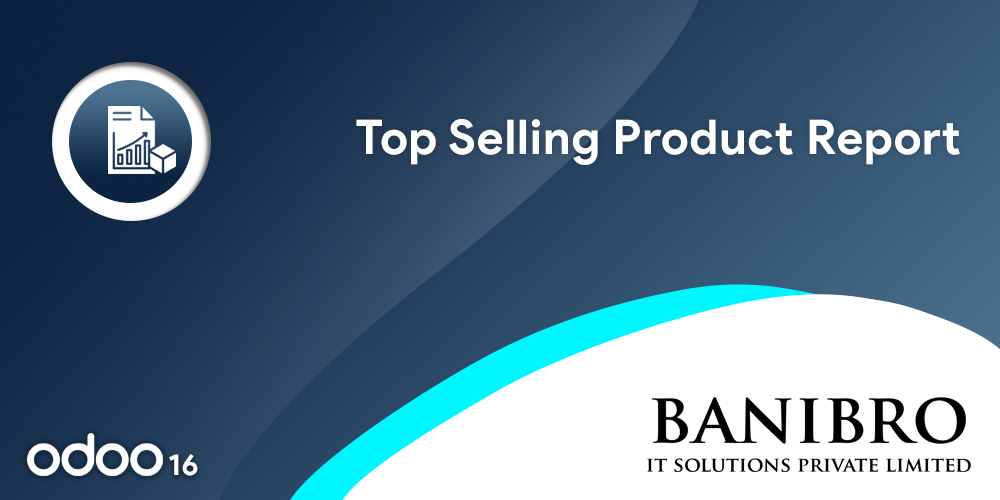
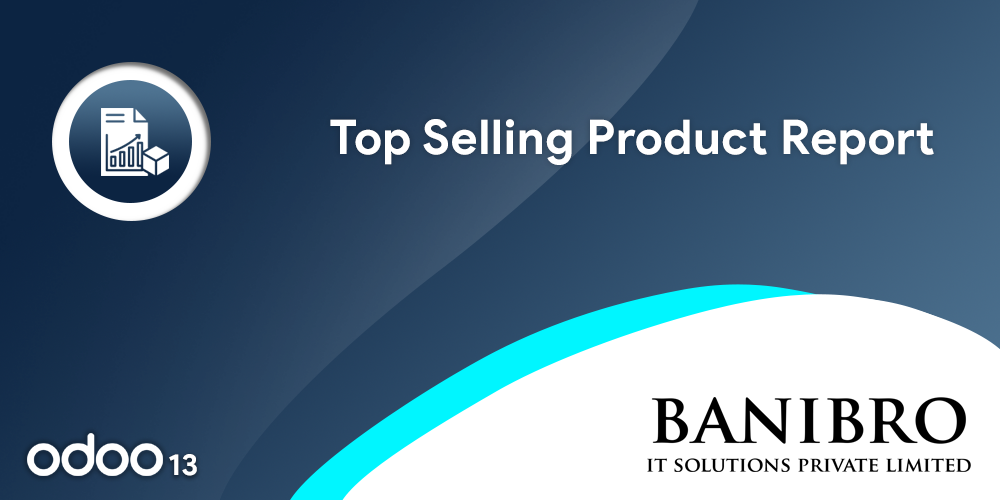
Add files via upload
This Module allows you to see the Top Selling and Least Selling Product Reports

Changed region(s): [[0.31, 0.24, 0.961, 0.33], [0.093, 0.21, 0.186, 0.36], [0.186, 0.9, 0.217, 0.93]]

diff --git a/br_top_selling_product_report/static/description/index.html b/br_top_selling_product_report/static/description/index.html
@@ -60,7 +60,7 @@
 				  <span class="fa fa-hand-o-right" style="font-size:1.5em;color:#2A4765;"/> A new menu called Top/Least Selling Product will be added when you install this module. Sales-> Reporting-> Top/Least selling products</p>
 			</div>
 			<div class="col-xs-12" style="margin-top:10px">
-				<img src="sal1.png" style="max-width:100%">
+				<img src="topsale1.png" style="max-width:100%">
 			</div>
 		
 			<div class="col-xs-12" style="margin-top:5px">
@@ -68,21 +68,14 @@
 				   <span class="fa fa-hand-o-right" style="font-size:1.5em;color:#2A4765;"/>From the wizard, we may choose from the fields for Companies, Warehouse, Number of Products, and Time Period for the Top Selling Product of. The report for the least popular product is generated if the box "Least Selling Product" is checked.</p>
 			</div>
 			<div class="col-xs-12" style="margin-top:10px">
-				<img src="sal2.png" style="max-width:100
+				<img src="topsale2.png" style="max-width:100
 			</div>
 			<div class="col-xs-12" style="margin-top:5px">
 				<p style=" font-family:'Roboto',sans-serif !important;font-weight:400 !important; color:#282F33 !important; font-size:1.5rem !important; line-height:30px !important"> 
 				   <span class="fa fa-hand-o-right" style="font-size:1.5em;color:#2A4765;"/>PDF on Top Selling Products.</p>
 			</div>
 			<div class="col-xs-12" style="margin-top:10px">
-				<img src="sal3.png" style="max-width:100%">
-			</div>
-			<div class="col-xs-12" style="margin-top:5px">
-				<p style=" font-family:'Roboto',sans-serif !important;font-weight:400 !important; color:#282F33 !important; font-size:1.5rem !important; line-height:30px !important"> 
-				   <span class="fa fa-hand-o-right" style="font-size:1.5em;color:#2A4765;"/>PDF on Least Selling Products.</p>
-			</div>
-			<div class="col-xs-12" style="margin-top:10px">
-				<img src="sal4.png" style="max-width:100%">
+				<img src="topsale3.png" style="max-width:100%">
 			</div>
 	                </div>
                     </div>

diff --git a/br_top_selling_product_report/report/top_selling_report.py b/br_top_selling_product_report/report/top_selling_report.py
@@ -1,17 +1,15 @@
-
-from datetime import timedelta, date
-
-import dateutil.relativedelta
-from dateutil.relativedelta import relativedelta
-
+# -*- coding: utf-8 -*-
 from odoo import models
+from datetime import timedelta, datetime, date
+from dateutil.relativedelta import relativedelta
+import dateutil.relativedelta
 
 
 class CustomReport(models.AbstractModel):
     _name = "report.br_top_selling_product_report.top_selling_reports"
-    _description = "Top selling products report"
 
     def _get_report_values(self, docids, data=None):
+
         limit_value = data['period'] if data['period'] else None
         date_option = data['date']
         date_selected_from = None
@@ -54,7 +52,7 @@ class CustomReport(models.AbstractModel):
         elif date_option == 'curr_year':
 
             date_limit = date.today() - dateutil.relativedelta.relativedelta(years=1)
-            from_date = date.today().replace(month=1, day=1)
+            from_date = date.today().replace(month=1,day=1)
             to_date = date.today() + dateutil.relativedelta.relativedelta(days=1)
             date_selected = "Current Year"
 
@@ -71,14 +69,14 @@ class CustomReport(models.AbstractModel):
             'least': data['least'],
             'range': date_selected,
             'date_selected_from': date_selected_from,
-            'date_selected_to': date_selected_to,
+            'date_selected_to': date_selected_to ,
         })
 
         cr = self._cr
         order = 'asc' if data['least'] else 'desc'
-        company_id = str(tuple(company_id)) if len(company_id) > 1 else "(" + str(company_id[0]) + ")"
-        warehouse_id = str(tuple(warehouse_id)) if len(warehouse_id) > 1 else "(" + str(warehouse_id[0]) + ")"
-        limit_clause = " limit'%s'" % limit_value if limit_value else ""
+        company_id = str(tuple(company_id)) if len(company_id) > 1 else "("+str(company_id[0])+")"
+        warehouse_id = str(tuple(warehouse_id)) if len(warehouse_id) > 1 else "("+str(warehouse_id[0])+")"
+        limit_clause = " limit'%s'"%limit_value if limit_value else ""
 
         query = ("""select sl.name as product_name,sum(product_uom_qty),pu.name from sale_order_line sl 
                    JOIN sale_order so ON sl.order_id = so.id 
@@ -87,12 +85,12 @@ class CustomReport(models.AbstractModel):
                    so.date_order::DATE <= '%s'::DATE and 
                    sl.state = 'sale' and so.company_id in %s 
                    and so.warehouse_id in %s
-                   group by sl.name,pu.name order by sum %s""" % (
-            from_date, to_date, company_id, warehouse_id, order)) + limit_clause
+                   group by sl.name,pu.name order by sum %s""" % (from_date, to_date, company_id, warehouse_id, order)) + limit_clause
         cr.execute(query)
         dat = cr.dictfetchall()
 
-        return {
+        return{
             'data': dat,
             'other': other_details,
         }
+

diff --git a/br_top_selling_product_report/wizard/top_selling_wizard.py b/br_top_selling_product_report/wizard/top_selling_wizard.py
@@ -1,43 +1,24 @@
 # -*- coding: utf-8 -*-
-#############################################################################
-#
-#    Cybrosys Technologies Pvt. Ltd.
-#
-#    Copyright (C) 2022-TODAY Cybrosys Technologies(<https://www.cybrosys.com>).
-#    Author:Cybrosys Techno Solutions(odoo@cybrosys.com)
-#
-#    You can modify it under the terms of the GNU AFFERO
-#    GENERAL PUBLIC LICENSE (AGPL v3), Version 3.
-#
-#    This program is distributed in the hope that it will be useful,
-#    but WITHOUT ANY WARRANTY; without even the implied warranty of
-#    MERCHANTABILITY or FITNESS FOR A PARTICULAR PURPOSE.  See the
-#    GNU AFFERO GENERAL PUBLIC LICENSE (AGPL v3) for more details.
-#
-#    You should have received a copy of the GNU AFFERO GENERAL PUBLIC LICENSE
-#    (AGPL v3) along with this program.
-#    If not, see <http://www.gnu.org/licenses/>.
-#
-#############################################################################
 from odoo import fields, models
 
 
 class TopSellingWizard(models.TransientModel):
+
     _name = 'top.selling'
-    _description = 'Top selling Products'
 
     from_date = fields.Date(string='From')
     to_date = fields.Date(string='To')
     date = fields.Selection([('days', 'Last 10 Days'), ('curr_month', 'Current Month'), ('last_month', 'Last Month'),
-                             ('curr_year', 'Current Year'), ('last_year', 'Last Year'),
-                             ('select_period', 'Select Period')],
-                            string="Top Selling product of", default='days')
+                             ('curr_year', 'Current Year'), ('last_year', 'Last Year'), ('select_period', 'Select Period')],
+                              string="Top Selling product of", default='days')
     period = fields.Char(string="Products Range", help="Enter number of products in report.")
     least = fields.Boolean(string="Least Selling Product", default=False)
     company = fields.Many2many('res.company', default=lambda self: self.env.user.company_id, string="Company")
     warehouse = fields.Many2many('stock.warehouse', string="Warehouse")
 
+
     def print_report(self):
+
         company_id = []
         warehouse_id = []
 

diff --git a/br_top_selling_product_report/__manifest__.py b/br_top_selling_product_report/__manifest__.py
@@ -1,22 +1,24 @@
-
+# -*- coding: utf-8 -*-
 {
     'name': 'Top/Least Selling Product Report',
-    'version': '16.0.1.0.0',
+    'version': '13.0.1.0.0',
     'summary': 'Top Selling and Least Selling Product Reports',
     'description': 'Top Selling Products,Fast Moving Products,Most Selling Products,Top Growing Products,Least Selling Products,',
-     'author': 'Banibro IT Solutions Pvt Ltd.',
+    'author': 'Banibro IT Solutions Pvt Ltd.',
     'company': 'Banibro IT Solutions Pvt Ltd.',
     'website': 'https://banibro.com',
-    'depends': ['base', 'sale_management', 'stock', 'sale'],
+    'depends': ['base','sale_management','stock','sale'],
     'category': 'Sale',
+    'demo': [],
     'data': ['wizard/top_selling_wizard.xml',
              'report/top_selling_report.xml',
-             'report/top_selling_report_template.xml',
-             'security/ir.model.access.csv'
-             ],
+             'report/top_selling_report_template.xml'],
+    'installable': True,
     'images': ['static/description/banner.png'],
-     'license': 'AGPL-3',
+    'qweb': [],
+    'license': 'AGPL-3',
     'email': "support@banibro.com",
+    'demo': [],
     'installable': True,
     'auto_install': False,
     'application': False,

diff --git a/br_top_selling_product_report/report/__init__.py b/br_top_selling_product_report/report/__init__.py
@@ -1,22 +1,2 @@
 # -*- coding: utf-8 -*-
-#############################################################################
-#
-#    Cybrosys Technologies Pvt. Ltd.
-#
-#    Copyright (C) 2022-TODAY Cybrosys Technologies(<https://www.cybrosys.com>).
-#    Author:Cybrosys Techno Solutions(odoo@cybrosys.com)
-#
-#    You can modify it under the terms of the GNU AFFERO
-#    GENERAL PUBLIC LICENSE (AGPL v3), Version 3.
-#
-#    This program is distributed in the hope that it will be useful,
-#    but WITHOUT ANY WARRANTY; without even the implied warranty of
-#    MERCHANTABILITY or FITNESS FOR A PARTICULAR PURPOSE.  See the
-#    GNU AFFERO GENERAL PUBLIC LICENSE (AGPL v3) for more details.
-#
-#    You should have received a copy of the GNU AFFERO GENERAL PUBLIC LICENSE
-#    (AGPL v3) along with this program.
-#    If not, see <http://www.gnu.org/licenses/>.
-#
-#############################################################################
 from . import top_selling_report

diff --git a/br_top_selling_product_report/wizard/__init__.py b/br_top_selling_product_report/wizard/__init__.py
@@ -1,22 +1,2 @@
 # -*- coding: utf-8 -*-
-#############################################################################
-#
-#    Cybrosys Technologies Pvt. Ltd.
-#
-#    Copyright (C) 2022-TODAY Cybrosys Technologies(<https://www.cybrosys.com>).
-#    Author:Cybrosys Techno Solutions(odoo@cybrosys.com)
-#
-#    You can modify it under the terms of the GNU AFFERO
-#    GENERAL PUBLIC LICENSE (AGPL v3), Version 3.
-#
-#    This program is distributed in the hope that it will be useful,
-#    but WITHOUT ANY WARRANTY; without even the implied warranty of
-#    MERCHANTABILITY or FITNESS FOR A PARTICULAR PURPOSE.  See the
-#    GNU AFFERO GENERAL PUBLIC LICENSE (AGPL v3) for more details.
-#
-#    You should have received a copy of the GNU AFFERO GENERAL PUBLIC LICENSE
-#    (AGPL v3) along with this program.
-#    If not, see <http://www.gnu.org/licenses/>.
-#
-#############################################################################
 from . import top_selling_wizard

diff --git a/br_top_selling_product_report/__init__.py b/br_top_selling_product_report/__init__.py
@@ -1,3 +1,3 @@
-
+# -*- coding: utf-8 -*-
 from . import wizard
 from . import report

diff --git a/br_top_selling_product_report/README.rst b/br_top_selling_product_report/README.rst
@@ -1,13 +1,14 @@
-Top/Least Selling Product Report v16
+Top/Least Selling Product Report v13
 ====================================
 Top Selling and Least Selling Product Reports
 
 Installation
 ============
-- www.odoo.com/documentation/15.0/setup/install.html
-- Install our custom addon
+	- www.odoo.com/documentation/12.0/setup/install.html
+	- Install our custom addon
 
 Configuration
 =============
-No additional configurations needed
+
+    No additional configurations needed
 

diff --git a/br_top_selling_product_report/doc/RELEASE_NOTES.md b/br_top_selling_product_report/doc/RELEASE_NOTES.md
@@ -1,6 +1,6 @@
-## Module <top_selling_product_report>
+## Module <br_top_selling_product_report>
 
-#### 17.10.2020
-#### Version 16.0.1.0.0
+#### 01.01.2020
+#### Version 13.0.1.0.0
 ##### ADD
 - Initial commit for Top Selling Product Report
